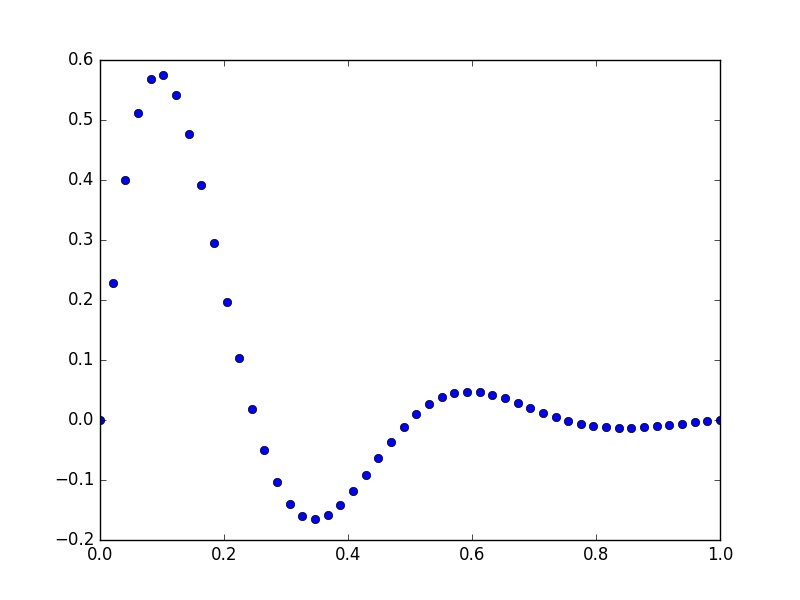
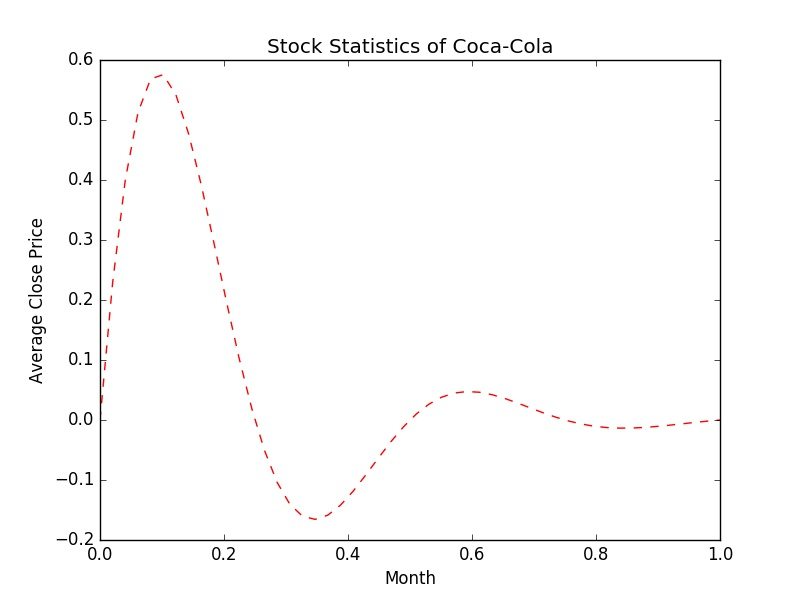
add matplotlib.pyplot as plt

diff --git a/lecture_4/matplotlib_pyplot.py b/lecture_4/matplotlib_pyplot.py
@@ -3,9 +3,21 @@
 import numpy as np
 import matplotlib.pyplot as plt
 
+plt.figure(figsize=(8, 6), dpi=100)
+
 x = np.linspace(0, 1)
 y = np.sin(4 * np.pi * x) * np.exp(-5 * x)
-# plt.plot(x, y)  # 折线图
-plt.plot(x, y, 'o')  # 散点图
+plt.plot(x, y, 'r--')  # 折线图  红色虚线
+# plt.plot(x, y, 'o')  # 散点图
+
+# plt.bar(x, y)  # 柱状图
+plt.title('Stock Statistics of Coca-Cola')
+plt.xlabel('Month')
+plt.ylabel('Average Close Price')
+# plt.legend(loc='upper_left')  # 图例位置
+# plt.subplot(212)  # 定义子图
+# plt.subplots_adjust()  # 定义子图距离
+
+
 plt.savefig('plt.jpg')
 plt.show()
